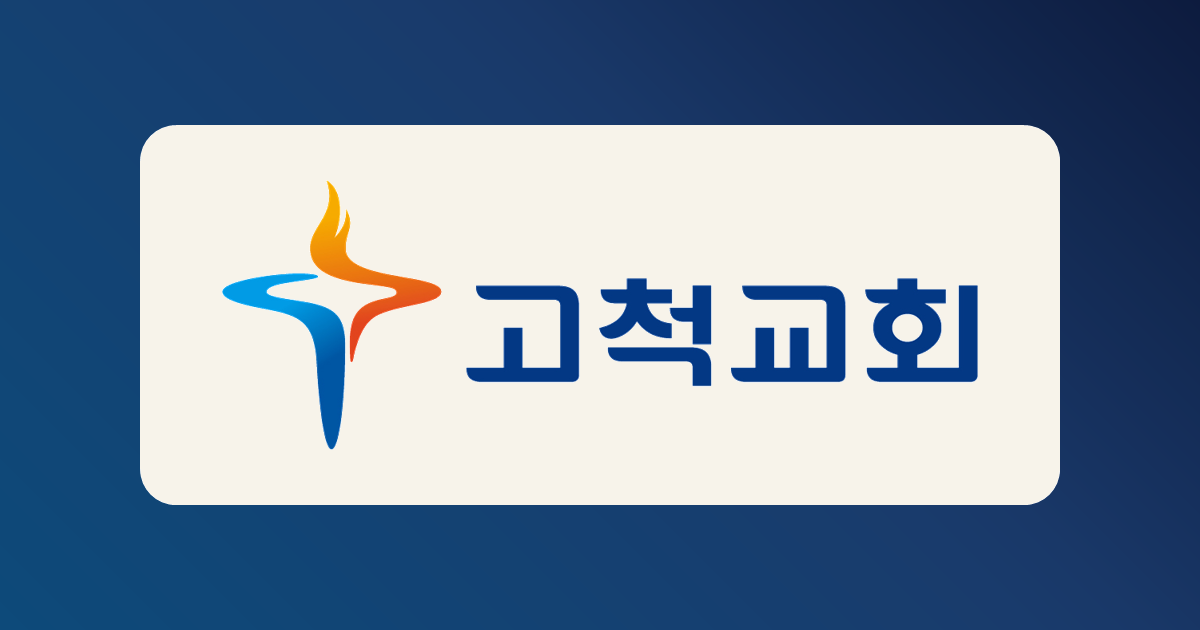
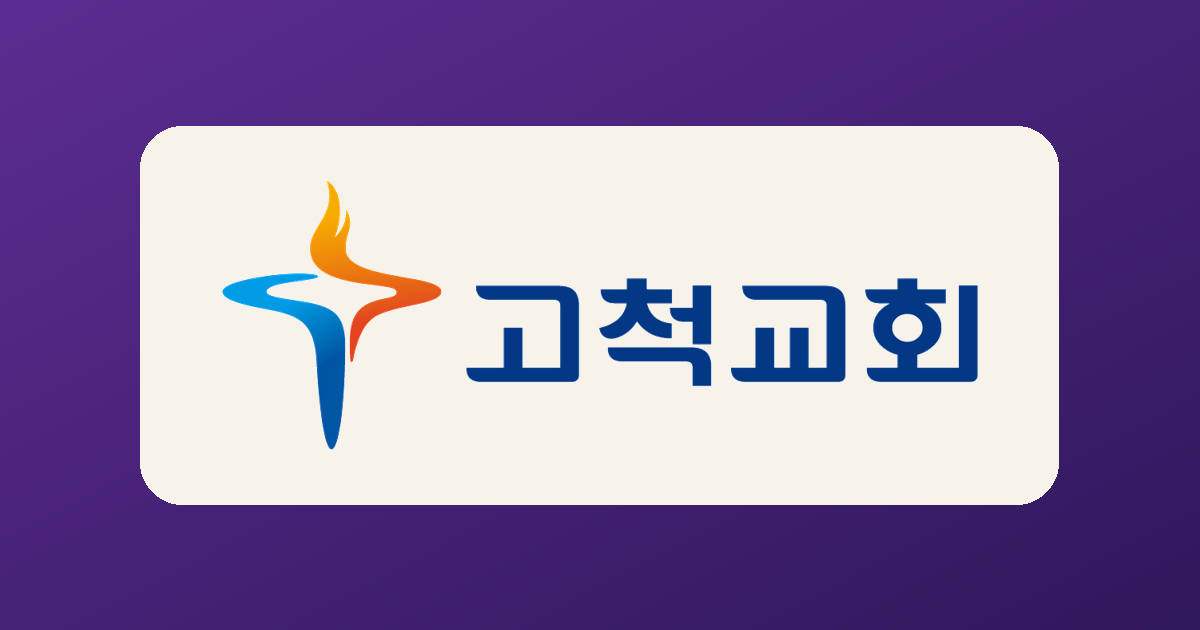
카카오 공유카드: 배경 보라색 + 타이틀/서브타이틀 문구 변경 + 이미지 캐시버전

diff --git a/index.html b/index.html
@@ -20,15 +20,18 @@
   <meta name="apple-mobile-web-app-title" content="찬양아카이브" />
 
   <meta property="og:type" content="website" />
-  <meta property="og:title" content="고척교회 찬양 아카이브" />
-  <meta property="og:description" content="10년의 주일 찬양 영상을 한 곳에서" />
-  <meta property="og:image" content="https://worship.onlybible.kr/og-cover.png" />
+  <meta property="og:title" content="찬양 아카이브 | 오직 성경, 말씀이 답이다!" />
+  <meta property="og:description" content="주의 말씀은 내 발에 등이요 내 길에 빛이니이다" />
+  <meta property="og:image" content="https://worship.onlybible.kr/og-cover.png?v=2" />
+  <meta property="og:image:width" content="1200" />
+  <meta property="og:image:height" content="630" />
   <meta property="og:url" content="https://worship.onlybible.kr/" />
-  <meta property="og:site_name" content="고척교회 찬양대" />
+  <meta property="og:site_name" content="고척교회 찬양 아카이브" />
+  <meta name="twitter:card" content="summary_large_image" />
 
   <link rel="preconnect" href="https://fonts.googleapis.com" />
   <link href="https://fonts.googleapis.com/css2?family=Gowun+Batang:wght@400;700&family=Noto+Sans+KR:wght@300;400;500;700;800&display=swap" rel="stylesheet" />
-  <link rel="stylesheet" href="style.css?v=20260706r" />
+  <link rel="stylesheet" href="style.css?v=20260706s" />
 </head>
 <body>
   <div id="splash">
@@ -36,7 +39,7 @@
       <img id="splash-logo" src="https://summer.onlybible.kr/logo3.png" alt="고척교회" />
       <div class="splash-title">고척교회 찬양 아카이브</div>
       <div class="splash-sub">오직 성경, 말씀이 답이다!</div>
-      <div class="splash-ver">v1.16</div>
+      <div class="splash-ver">v1.17</div>
     </div>
   </div>
   <script>
@@ -104,8 +107,8 @@
       sync();
     })();
   </script>
-  <script src="js/config.js?v=20260706r"></script>
-  <script src="js/api.js?v=20260706r"></script>
-  <script src="app.js?v=20260706r"></script>
+  <script src="js/config.js?v=20260706s"></script>
+  <script src="js/api.js?v=20260706s"></script>
+  <script src="app.js?v=20260706s"></script>
 </body>
 </html>

diff --git a/scripts/gen-og.py b/scripts/gen-og.py
@@ -1,0 +1,44 @@
+# og-cover.png 배경만 남색 -> 보라색으로 (카드+로고는 원본 유지)
+from PIL import Image, ImageDraw
+
+SRC = r"C:\Projects\praise-songs\og-cover-navy.png"   # 원본(백업)
+OUT = r"C:\Projects\praise-songs\og-cover.png"
+
+img = Image.open(SRC).convert("RGB")
+W, H = img.size
+px = img.load()
+
+# 1) 크림색(밝은) 카드 영역의 bounding box 찾기
+minx, miny, maxx, maxy = W, H, 0, 0
+for y in range(0, H, 2):
+    for x in range(0, W, 2):
+        r, g, b = px[x, y]
+        if r > 200 and g > 195 and b > 175:  # 크림/화이트 카드
+            if x < minx: minx = x
+            if x > maxx: maxx = x
+            if y < miny: miny = y
+            if y > maxy: maxy = y
+print("카드 bbox:", minx, miny, maxx, maxy)
+
+# 2) 보라색 대각 그라디언트 배경
+c1 = (92, 45, 145)   # 밝은 보라 (top-left)  #5C2D91
+c2 = (48, 24, 92)    # 짙은 보라 (bottom-right) #30185C
+bg = Image.new("RGB", (W, H))
+bp = bg.load()
+for y in range(H):
+    for x in range(W):
+        t = (x / W + y / H) / 2.0
+        bp[x, y] = (
+            int(c1[0] + (c2[0]-c1[0])*t),
+            int(c1[1] + (c2[1]-c1[1])*t),
+            int(c1[2] + (c2[2]-c1[2])*t),
+        )
+
+# 3) 카드 모양(둥근 사각형) 마스크 — 이 안은 원본 유지, 밖은 보라 배경
+mask = Image.new("L", (W, H), 0)
+md = ImageDraw.Draw(mask)
+md.rounded_rectangle([minx, miny, maxx, maxy], radius=42, fill=255)
+
+out = Image.composite(img, bg, mask)
+out.save(OUT, "PNG")
+print("완료:", OUT, out.size)
